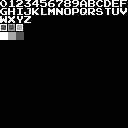
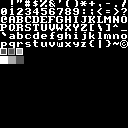
ascii text

Changed region(s): [[0.0, 0.0, 1.0, 0.5]]

diff --git a/src/main.rs b/src/main.rs
@@ -3,42 +3,31 @@
 #![allow(unused_imports)]
 
 mod io;
-
-use io::*;
-
-use core::panic::PanicInfo;
+mod ppu;
 
 // gym nest ascii 4block
-
 
 // TODO
 // controller
 // sprites
 // allocate / meta
 
-#[panic_handler]
-fn panic(_info: &PanicInfo) -> ! {
-    // TODO: panic handler
-    let mut p = 0xE0 as *mut u8;
-    for ch in "panic".chars() {
-        unsafe {
-            *p = ch as u8;
-            p = p.add(1);
-        }
-    }
-    loop {}
-}
-
 #[start]
 fn _main(_argc: isize, _argv: *const *const u8) -> isize {
     let mut p = 0x100 as *mut u8;
 
-    ppu_ctrl(0x80);
-    ppu_mask(0x1E);
+    ppu::write_addr(0x2042);
+    ppu::draw_text("Public domain roms??");
+
+    ppu::write_addr(0x22C5);
+    ppu::draw_text("very cool (~'v')~");
+
+    ppu::write_ctrl(0x80);
+    ppu::write_mask(0x1E);
 
     loop {
 
-        wait_for_vblank();
+        io::wait_for_vblank();
         unsafe {
             *p += 1;
         }
@@ -50,28 +39,34 @@ pub extern "C" fn render()  {
     let p = 0xF0 as *mut u8;
     unsafe { *p += 1; }
 
-    ppu_addr(0x2008);
 
-    for i in 0x2000..0x2040 {
-        ppu_data(0xFF);
+    ppu::write_addr(0x2180 + (unsafe { *p >> 2 } % 32) as u16);
+    ppu::draw_text(" WOW! ");
 
-    }
-
-    for ch in "HELLO WORLD".chars() {
-        ppu_data(ch as u8 - 65 + 10);
-    }
-
-    for i in 0..10 {
-        ppu_data(0xFF);
-
+    ppu::write_addr(0x21A0);
+    for i in 0..0x4 {
+        ppu::draw_text(" ");
     }
 
     // reset scroll
-    ppu_addr(0x2000);
-    ppu_scroll(0, 0);
+    ppu::write_addr(0x2000);
+    ppu::scroll(0, 0);
 }
 
 
 #[link_section = ".chr_rom"]
 #[no_mangle]
 pub static TILES: [u8; 4096] = *include_bytes!("./chr/tiles.chr");
+
+#[panic_handler]
+fn panic(info: &core::panic::PanicInfo) -> ! {
+    let mut p = 0xE0 as *mut u8;
+    let message = info.payload().downcast_ref::<&str>().unwrap_or(&"!!PANIC!!");
+    for ch in message.chars() {
+        unsafe {
+            *p = ch as u8;
+            p = p.add(1);
+        }
+    }
+    loop {}
+}

diff --git a/src/io.rs b/src/io.rs
@@ -6,46 +6,3 @@ extern "C" {
 pub fn wait_for_vblank() {
     unsafe { wait_vblank() };
 }
-
-pub fn ppu_ctrl(value: u8) {
-    let p = 0x2000 as *mut u8;
-    unsafe {
-        core::ptr::write_volatile(p, value);
-    }
-}
-
-pub fn ppu_mask(value: u8) {
-    let p = 0x2001 as *mut u8;
-    unsafe {
-        core::ptr::write_volatile(p, value);
-    }
-}
-
-pub fn ppu_addr(value: u16) {
-    let p = 0x2006 as *mut u8;
-    unsafe {
-        core::ptr::write_volatile(p, (value >> 8) as u8);
-        core::ptr::write_volatile(p, value as u8);
-    }
-}
-
-pub fn ppu_data(value: u8) {
-    let p = 0x2007 as *mut u8;
-    unsafe {
-        core::ptr::write_volatile(p, value);
-    }
-}
-
-pub fn ppu_scroll(x: u8, y: u8) {
-    let p = 0x2005 as *mut u8;
-    unsafe {
-        core::ptr::write_volatile(p, x);
-        core::ptr::write_volatile(p, y);
-    }
-}
-
-pub fn draw_text(text: &str) {
-    for ch in text.chars() {
-        ppu_data(ch as u8 - 55);
-    }
-}

diff --git a/src/ppu.rs b/src/ppu.rs
@@ -1,0 +1,44 @@
+pub fn write_ctrl(value: u8) {
+    let p = 0x2000 as *mut u8;
+    unsafe {
+        core::ptr::write_volatile(p, value);
+    }
+}
+
+pub fn write_mask(value: u8) {
+    let p = 0x2001 as *mut u8;
+    unsafe {
+        core::ptr::write_volatile(p, value);
+    }
+}
+
+pub fn write_addr(value: u16) {
+    let p = 0x2006 as *mut u8;
+    unsafe {
+        core::ptr::write_volatile(p, (value >> 8) as u8);
+        core::ptr::write_volatile(p, value as u8);
+    }
+}
+
+pub fn write_data(value: u8) {
+    let p = 0x2007 as *mut u8;
+    unsafe {
+        core::ptr::write_volatile(p, value);
+    }
+}
+
+pub fn scroll(x: u8, y: u8) {
+    let p = 0x2005 as *mut u8;
+    unsafe {
+        core::ptr::write_volatile(p, x);
+        core::ptr::write_volatile(p, y);
+    }
+}
+
+
+#[inline(never)]
+pub fn draw_text(text: &str) {
+    for ch in text.chars() {
+        write_data(ch as u8 - 32);
+    }
+}

diff --git a/README.md b/README.md
@@ -1,5 +1,6 @@
-uses https://github.com/mrk-its/rust-mos
-read more https://llvm-mos.org/wiki/Rust
+uses https://llvm-mos.org and https://github.com/mrk-its/rust-mos read more https://llvm-mos.org/wiki/Rust 
+
+public domain font https://opengameart.org/content/intrepid-monochrome-8-bit-font
 
 building;
 
